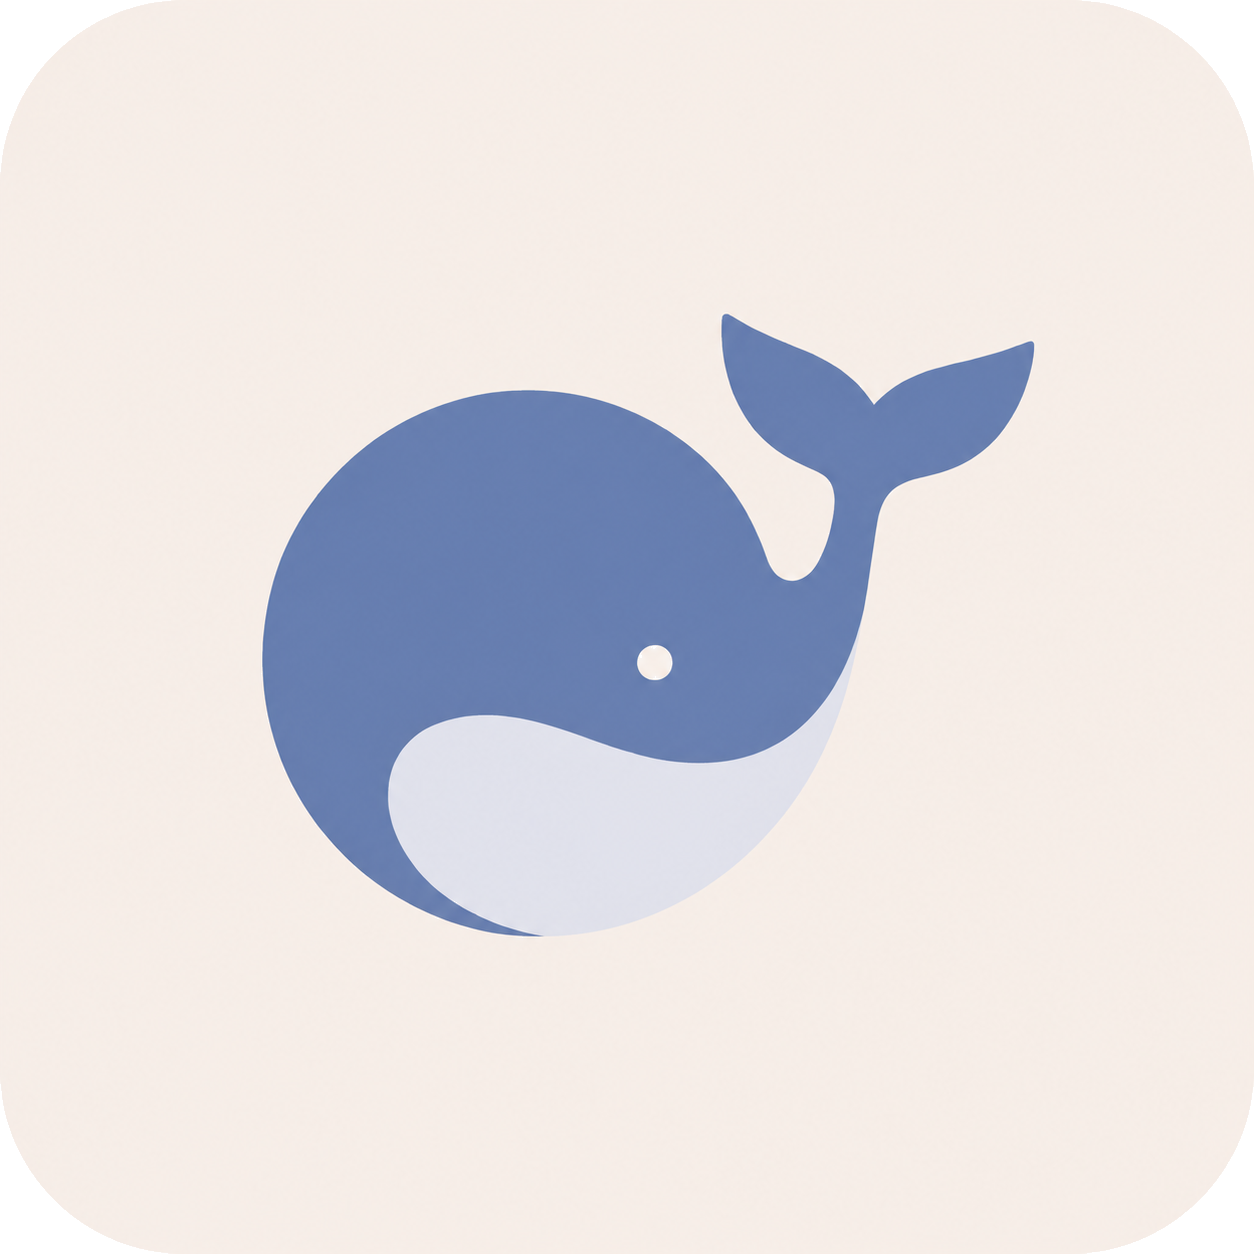
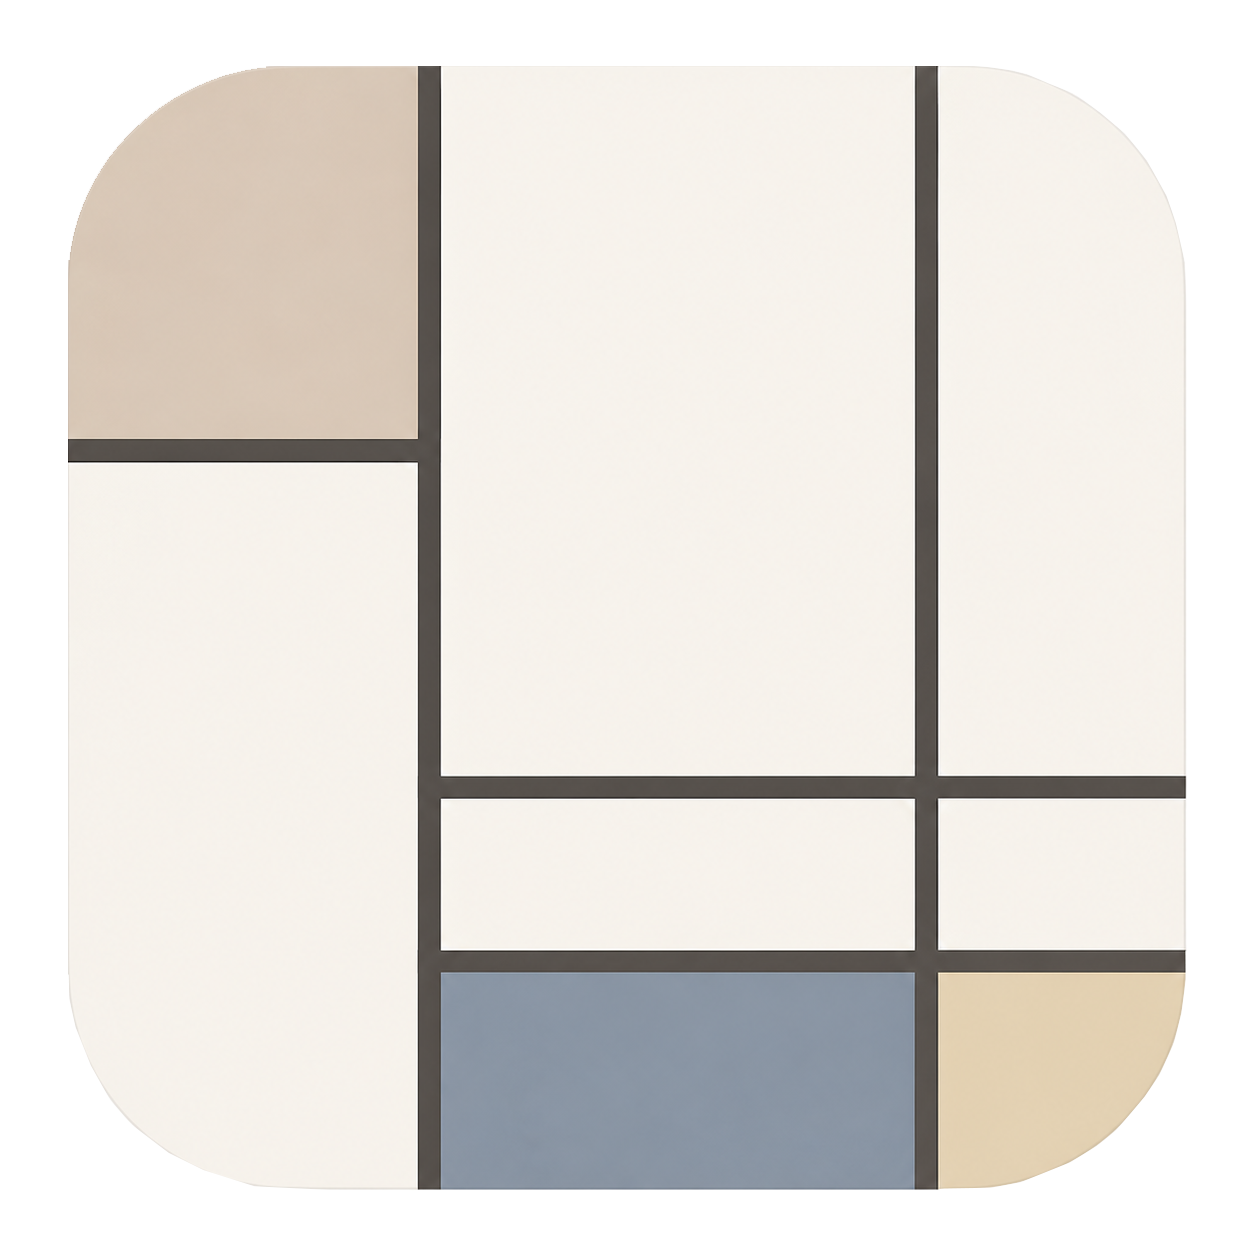
feat: rebrand to Neck Code

diff --git a/src/main/index.ts b/src/main/index.ts
@@ -21,6 +21,29 @@ let mainWindow: BrowserWindow | null = null;
 let tray: Tray | null = null;
 const toolRegistries = new Map<string, ToolRegistry>();
 let saveBoundsTimer: ReturnType<typeof setTimeout> | null = null;
+const APP_NAME = 'Neck Code';
+const START_HIDDEN_ARGS = new Set(['--hidden', '--background', '--tray']);
+
+app.setName(APP_NAME);
+app.setAppUserModelId('com.peanuts.neckcode');
+
+function shouldStartHidden(): boolean {
+  return process.argv.some(arg => START_HIDDEN_ARGS.has(arg));
+}
+
+async function applyAutoLaunchSetting(enabled: boolean): Promise<boolean> {
+  const value = Boolean(enabled);
+  const launchArgs = app.isPackaged ? ['--hidden'] : [app.getAppPath(), '--hidden'];
+  app.setLoginItemSettings({
+    openAtLogin: value,
+    openAsHidden: true,
+    args: value ? launchArgs : [],
+  });
+  const cfg = getConfig();
+  cfg.autoLaunch = value;
+  await saveConfig();
+  return value;
+}
 
 /* ── Auto updater ── */
 function setupAutoUpdater(): void {
@@ -97,6 +120,21 @@ ipcMain.handle('close:choice', async (_event, action: string, remember: boolean)
     (app as any).__quitting = true;
     app.quit();
   }
+});
+
+ipcMain.handle('auto-launch:get', async () => {
+  const cfg = getConfig();
+  const login = app.getLoginItemSettings();
+  const enabled = Boolean(cfg.autoLaunch ?? login.openAtLogin);
+  if (cfg.autoLaunch !== enabled) {
+    cfg.autoLaunch = enabled;
+    await saveConfig();
+  }
+  return enabled;
+});
+
+ipcMain.handle('auto-launch:set', async (_event, enabled: boolean) => {
+  return applyAutoLaunchSetting(Boolean(enabled));
 });
 
 ipcMain.handle('window:set-always-on-top', async (_event, enabled: boolean) => {
@@ -247,8 +285,9 @@ function createWindow(): void {
     height: saved?.height || Math.min(900, Math.floor(sh * 0.85)),
     minWidth: 900,
     minHeight: 600,
-    title: 'DeepSeek Code',
+    title: APP_NAME,
     icon: iconPath,
+    show: !shouldStartHidden(),
     frame: false,
     transparent: false,
     hasShadow: true,
@@ -308,18 +347,18 @@ function createTray(): void {
     : path.join(__dirname, '../../resources/icon.png');
   const trayIcon = nativeImage.createFromPath(trayIconPath).resize({ width: 16, height: 16 });
   tray = new Tray(trayIcon);
-  tray.setToolTip('DeepSeek Code');
+  tray.setToolTip(APP_NAME);
 
   const contextMenu = Menu.buildFromTemplate([
     {
-      label: 'Show',
+      label: '显示 Neck Code',
       click: () => {
         mainWindow?.show();
         mainWindow?.focus();
       },
     },
     {
-      label: 'Quit',
+      label: '退出',
       click: () => {
         (app as any).__quitting = true;
         saveWindowBounds();
@@ -347,10 +386,10 @@ async function ensureDefaultTemplates(): Promise<void> {
   const agentMd = join(base, 'AGENT.md');
   try { await fs.access(agentMd); } catch {
     await fs.mkdir(base, { recursive: true });
-    await fs.writeFile(agentMd, `# DeepSeek Code — 用户指令
+    await fs.writeFile(agentMd, `# Neck Code — 用户指令
 
 这是你的全局 AGENT.md 文件。在这里定义你的偏好、规则和工作风格，
-Agent 每次对话都会自动加载这些指令。
+Neck Code Agent 每次对话都会自动加载这些指令。
 
 ## 基本设置
 
@@ -363,6 +402,15 @@ Agent 每次对话都会自动加载这些指令。
 <!-- 在下方添加你的自定义指令 -->
 
 `, 'utf8');
+  }
+  try {
+    const current = await fs.readFile(agentMd, 'utf8');
+    const migrated = current
+      .replace(/^# DeepSeek Code — 用户指令/m, '# Neck Code — 用户指令')
+      .replace(/Agent 每次对话都会自动加载这些指令。/g, 'Neck Code Agent 每次对话都会自动加载这些指令。');
+    if (migrated !== current) await fs.writeFile(agentMd, migrated, 'utf8');
+  } catch {
+    // Best-effort migration only; never block startup on user template files.
   }
 
   // Memory index
@@ -425,6 +473,9 @@ version: 0.1.0
 
 app.whenReady().then(async () => {
   await loadConfig();
+  if (getConfig().autoLaunch) {
+    await applyAutoLaunchSetting(true);
+  }
   await ensureDefaultTemplates();
   await loadSkills(getConfig().agent.workspaceRoot);
   setupIpcHandlers(createProvider, getOrCreateTools);

diff --git a/src/renderer/components/SettingsDialog.tsx b/src/renderer/components/SettingsDialog.tsx
@@ -54,6 +54,7 @@ export function SettingsDialog({ open, onClose }: Props) {
   const [balance, setBalance] = useState<BalanceInfo | null>(null);
   const [balanceLoading, setBalanceLoading] = useState(false);
   const [balanceError, setBalanceError] = useState<string | null>(null);
+  const [autoLaunch, setAutoLaunch] = useState(false);
   const [quickLauncher, setQuickLauncher] = useState<QuickLauncherSettings>({
     enabled: true,
     triggerWindowMs: 400,
@@ -73,6 +74,8 @@ export function SettingsDialog({ open, onClose }: Props) {
       const cfg = await window.electronAPI.getConfig() as any;
       const list = cfg.providers || [];
       setProviderList(list.map((p: any) => ({ id: p.id, name: p.name, models: Array.isArray(p.models) ? p.models.map((m: any) => typeof m === 'string' ? m : m.name) : [] })));
+      setAutoLaunch(Boolean(cfg.autoLaunch));
+      window.electronAPI.getAutoLaunch?.().then((enabled: boolean) => setAutoLaunch(Boolean(enabled))).catch(() => {});
       const quick = cfg.quickLauncher || {};
       setQuickLauncher({
         enabled: quick.enabled !== false,
@@ -89,6 +92,12 @@ export function SettingsDialog({ open, onClose }: Props) {
     const next = { ...quickLauncher, ...patch };
     setQuickLauncher(next);
     await window.electronAPI.setConfig('quickLauncher', next);
+  };
+
+  const updateAutoLaunch = async (enabled: boolean) => {
+    setAutoLaunch(enabled);
+    const actual = await window.electronAPI.setAutoLaunch?.(enabled).catch(() => !enabled);
+    if (typeof actual === 'boolean') setAutoLaunch(actual);
   };
 
   const inferModelMode = (name: string): 'text' | 'multimodal' => {
@@ -320,6 +329,17 @@ export function SettingsDialog({ open, onClose }: Props) {
                 ))}
               </div>
               <button className="btn btn-send" onClick={startNew} style={{ width: '100%', marginTop: 8 }}>＋ 添加供应商</button>
+              <div className="quick-settings-card">
+                <div className="quick-settings-title">启动</div>
+                <label className="settings-check">
+                  <input
+                    type="checkbox"
+                    checked={autoLaunch}
+                    onChange={e => void updateAutoLaunch(e.target.checked)}
+                  />
+                  开机自启动（后台启动并最小化到托盘）
+                </label>
+              </div>
               <div className="quick-settings-card">
                 <div className="quick-settings-title">QuickLauncher</div>
                 <label className="settings-check">

diff --git a/src/renderer/components/CloseDialog.tsx b/src/renderer/components/CloseDialog.tsx
@@ -3,17 +3,21 @@ import React, { useEffect, useState } from 'react';
 export function CloseDialog() {
   const [visible, setVisible] = useState(false);
   const [remember, setRemember] = useState(false);
+  const [autoLaunch, setAutoLaunch] = useState(false);
 
   useEffect(() => {
     const api = window.electronAPI as any;
     if (!api?.onCloseAsk) return;
-    const unsub = api.onCloseAsk(() => setVisible(true));
+    const unsub = api.onCloseAsk(() => {
+      api.getAutoLaunch?.().then((enabled: boolean) => setAutoLaunch(Boolean(enabled))).catch(() => {});
+      setVisible(true);
+    });
     return () => unsub?.();
   }, []);
 
   const handleChoice = (action: 'tray' | 'quit') => {
     setVisible(false);
-    (window.electronAPI as any).closeChoice(action, remember);
+    (window.electronAPI as any).closeChoice(action, remember, autoLaunch);
   };
 
   if (!visible) return null;
@@ -21,7 +25,7 @@ export function CloseDialog() {
   return (
     <div className="close-dialog-overlay">
       <div className="close-dialog">
-        <h3>关闭 DeepSeek Code</h3>
+        <h3>关闭 Neck Code</h3>
         <p>选择关闭方式：</p>
         <div className="close-dialog-buttons">
           <button className="btn btn-send" onClick={() => handleChoice('tray')}>
@@ -34,6 +38,10 @@ export function CloseDialog() {
         <label className="close-dialog-remember">
           <input type="checkbox" checked={remember} onChange={e => setRemember(e.target.checked)} />
           记住我的选择，不再询问
+        </label>
+        <label className="close-dialog-remember">
+          <input type="checkbox" checked={autoLaunch} onChange={e => setAutoLaunch(e.target.checked)} />
+          开机自启动（后台启动并最小化到托盘）
         </label>
       </div>
     </div>

diff --git a/src/main/preload.ts b/src/main/preload.ts
@@ -86,6 +86,8 @@ const api = {
   close: () => ipcRenderer.invoke('window:close'),
   setAlwaysOnTop: (enabled: boolean) => ipcRenderer.invoke('window:set-always-on-top', enabled),
   getAlwaysOnTop: () => ipcRenderer.invoke('window:get-always-on-top'),
+  getAutoLaunch: () => ipcRenderer.invoke('auto-launch:get'),
+  setAutoLaunch: (enabled: boolean) => ipcRenderer.invoke('auto-launch:set', enabled),
 
   // QuickLauncher
   quickLauncherShow: () => ipcRenderer.invoke('quick-launcher:show'),
@@ -246,7 +248,13 @@ const api = {
     ipcRenderer.on('close:ask', listener);
     return () => ipcRenderer.removeListener('close:ask', listener);
   },
-  closeChoice: (action: string, remember: boolean) => ipcRenderer.invoke('close:choice', action, remember),
+  closeChoice: (action: string, remember: boolean, autoLaunch?: boolean) => {
+    if (typeof autoLaunch === 'boolean') {
+      return ipcRenderer.invoke('auto-launch:set', autoLaunch)
+        .then(() => ipcRenderer.invoke('close:choice', action, remember));
+    }
+    return ipcRenderer.invoke('close:choice', action, remember);
+  },
 
   // Auto-update
  // IM
   imConnect: (serverUrl?: string) => ipcRenderer.invoke('im:connect', serverUrl),

diff --git a/src/main/config.ts b/src/main/config.ts
@@ -37,6 +37,7 @@ export interface AppConfigData {
   theme?: 'light' | 'dark';
   lightScheme?: string;
   closeBehavior?: 'ask' | 'tray' | 'quit';
+  autoLaunch?: boolean;
   alwaysOnTop?: boolean;
   fontScale?: number;
   codeLeftWidth?: number;
@@ -98,10 +99,11 @@ const defaultConfig: AppConfigData = {
     contextLimit: 0,
     workspaceRoot: homedir(),
   },
-  systemPrompt: 'You are a helpful coding assistant. Use tools when needed. Be concise and factual.',
+  systemPrompt: 'You are Neck Code, a helpful coding assistant. Use tools when needed. Be concise and factual.',
   permissionMode: 'default',
   theme: 'light',
   lightScheme: 'default',
+  autoLaunch: false,
   quickLauncher: {
     enabled: true,
     triggerWindowMs: 400,
@@ -220,6 +222,7 @@ function normalizeLoadedConfig(loaded: AppConfigData): AppConfigData {
     loaded.providers = DEFAULT_PROVIDERS.map(cloneProvider);
   }
   loaded.permissionMode = normalizePermissionMode(loaded.permissionMode);
+  loaded.autoLaunch = typeof loaded.autoLaunch === 'boolean' ? loaded.autoLaunch : defaultConfig.autoLaunch;
   loaded.agents = normalizeAgents(loaded.agents);
   const rawQuickLauncher: Record<string, unknown> = isRecord(loaded.quickLauncher) ? loaded.quickLauncher : {};
   loaded.quickLauncher = {

diff --git a/src/renderer/types.d.ts b/src/renderer/types.d.ts
@@ -18,6 +18,8 @@ export interface ElectronAPI {
   minimize: () => Promise<void>;
   maximize: () => Promise<void>;
   close: () => Promise<void>;
+  getAutoLaunch?: () => Promise<boolean>;
+  setAutoLaunch?: (enabled: boolean) => Promise<boolean>;
 
   // Agent events (returns unsubscribe function)
   onDelta: (cb: (sid: string, text: string) => void) => () => void;
@@ -29,7 +31,7 @@ export interface ElectronAPI {
   onError: (cb: (sid: string, error: string | AgentError) => void) => () => void;
 
   // Config
-  getConfig: () => Promise<{ model: string; models: string[]; activeProvider: string; providers: Array<{ id: string; name: string; models: string[] }>; workspaceRoot: string; maxTurns: number; maxTokens: number; baseUrl: string; theme?: 'light' | 'dark'; lightScheme?: string; fontScale?: number; codeLeftWidth?: number; quickLauncher?: { enabled: boolean; triggerWindowMs: number; inputAutoHideMs: number; panelAutoHideMs: number; mode: 'chat' | 'find'; modelId?: string; findMaxDepth?: number }; deepseekApiKey?: string; anthropicApiKey?: string }>;
+  getConfig: () => Promise<{ model: string; models: string[]; activeProvider: string; providers: Array<{ id: string; name: string; models: string[] }>; workspaceRoot: string; maxTurns: number; maxTokens: number; baseUrl: string; theme?: 'light' | 'dark'; lightScheme?: string; fontScale?: number; codeLeftWidth?: number; autoLaunch?: boolean; quickLauncher?: { enabled: boolean; triggerWindowMs: number; inputAutoHideMs: number; panelAutoHideMs: number; mode: 'chat' | 'find'; modelId?: string; findMaxDepth?: number }; deepseekApiKey?: string; anthropicApiKey?: string }>;
   setConfig: (key: string, value: unknown) => Promise<void>;
   getProviders: () => Promise<unknown[]>;
   setProvider: (config: unknown) => Promise<void>;

diff --git a/src/main/ipc-handlers.ts b/src/main/ipc-handlers.ts
@@ -63,7 +63,7 @@ function buildSkillsPrompt(): string {
   lines.push('');
   lines.push('You have access to the following skills. When a user request matches a skill\'s trigger conditions, you MUST proactively invoke the relevant skill using the `invoke_skill` tool before responding. Use `list_skills` to see full skill details including when-to-use hints.');
   lines.push('');
-  lines.push('**Skill storage**: All skills, memory, and config live under `~/.deepseekcode/`. When creating or editing skills, write to `~/.deepseekcode/skills/<name>/SKILL.md`. Do NOT use `~/.claude/` paths — that is a different application.');
+  lines.push('**Neck Code skill storage**: All skills, memory, and config live under `~/.deepseekcode/`. When creating or editing skills, write to `~/.deepseekcode/skills/<name>/SKILL.md`. Do NOT use `~/.claude/` paths — that is a different application.');
 
   for (const s of available) {
     const trigger = s.whenToUse ? ` TRIGGER when: ${s.whenToUse}` : '';
@@ -1129,6 +1129,7 @@ export function setupIpcHandlers(
       lightScheme: cfg.lightScheme || 'default',
       fontScale: cfg.fontScale || 100,
       codeLeftWidth: cfg.codeLeftWidth,
+      autoLaunch: cfg.autoLaunch || false,
       quickLauncher: cfg.quickLauncher,
       baseUrl: active.baseUrl,
       deepseekApiKey: cfg.providers.find(p => p.id === 'deepseek')?.apiKey || '',

diff --git a/src/renderer/App.tsx b/src/renderer/App.tsx
@@ -216,7 +216,7 @@ export default function App() {
         <div className="toolbar" ref={toolbarRef}>
           <div className="toolbar-left">
             <img src="./icon.png" className="toolbar-icon" alt="" />
-            <span className="toolbar-title">DeepSeek Code</span>
+            <span className="toolbar-title">Neck Code</span>
             <span className="toolbar-version" style={{ fontSize: 11, color: 'var(--text-muted)', marginLeft: 8 }}>v{version}</span>
           </div>
           <div className="toolbar-center" />

diff --git a/src/renderer/components/ChatPanel.tsx b/src/renderer/components/ChatPanel.tsx
@@ -63,7 +63,7 @@ export function ChatPanel() {
       <div className="chat-messages">
         {showEmpty ? (
           <div className="chat-empty">
-            <h2>DeepSeek Code</h2>
+            <h2>Neck Code</h2>
             <p>输入你的问题开始对话</p>
           </div>
         ) : (

diff --git a/src/renderer/components/EditorPanel.tsx b/src/renderer/components/EditorPanel.tsx
@@ -155,7 +155,7 @@ export function EditorPanel() {
     return (
       <div className="editor-empty">
         <div className="editor-empty-text">
-          <h3>DeepSeek Code</h3>
+          <h3>Neck Code</h3>
           <p>Open a file from the left panel to start editing</p>
           <p className="hint">Ctrl+S to save | Select text → right-click → Send to Chat</p>
         </div>

diff --git a/src/renderer/components/im/LoginPage.tsx b/src/renderer/components/im/LoginPage.tsx
@@ -55,7 +55,7 @@ export function LoginPage() {
     <div style={pageStyle}>
       <section style={cardStyle}>
         <div style={{ marginBottom: 26 }}>
-          <div style={eyebrowStyle}>DeepSeek Code</div>
+          <div style={eyebrowStyle}>Neck Code</div>
           <h2 style={titleStyle}>IM 通讯</h2>
           <p style={descStyle}>登录后可进行好友检索、请求处理和一对一消息同步。</p>
         </div>

diff --git a/src/renderer/index.html b/src/renderer/index.html
@@ -3,7 +3,7 @@
   <head>
     <meta charset="UTF-8" />
     <meta name="viewport" content="width=device-width, initial-scale=1.0" />
-    <title>DeepSeek Code</title>
+    <title>Neck Code</title>
   </head>
   <body>
     <div id="root"></div>